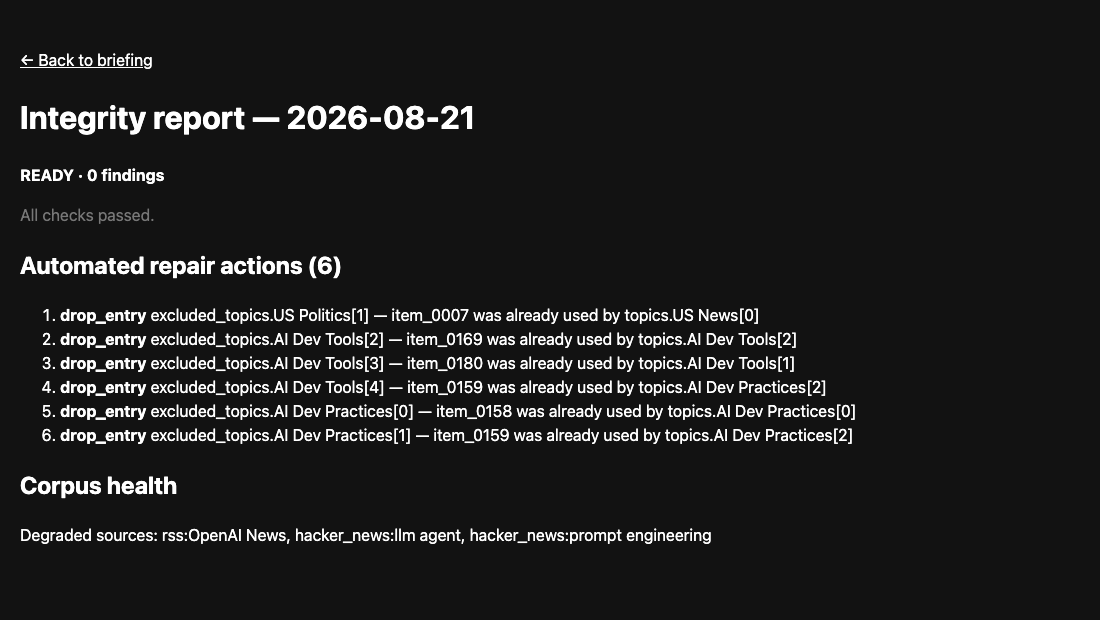
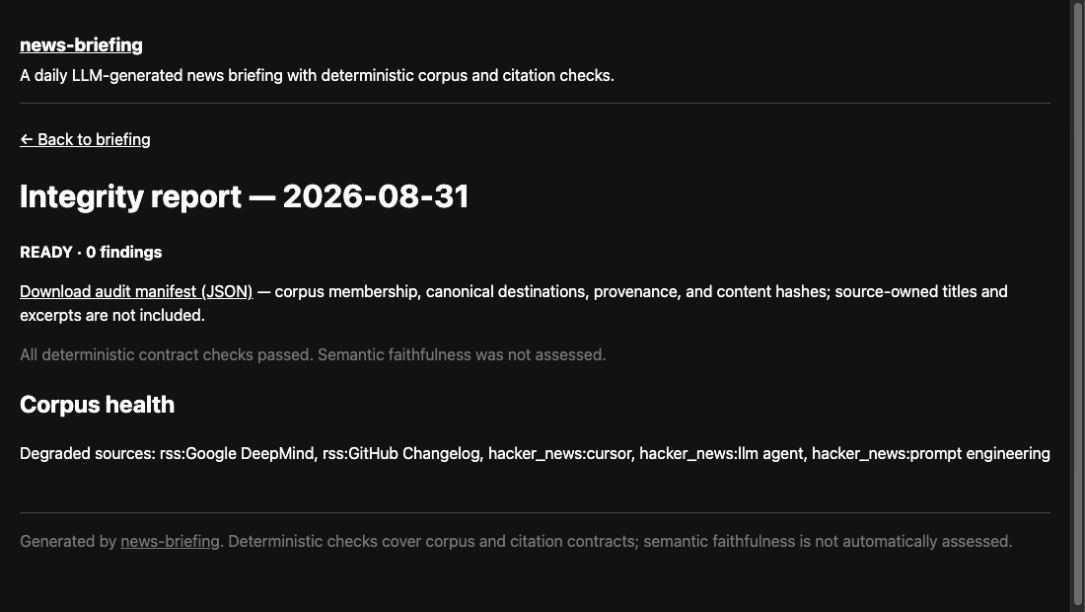
docs: refresh briefing screenshots (#154)

Changed region(s): [[0.0, 0.0, 1.0, 1.0], [0.0, 0.0621, 0.5779, 0.3725], [0.0, 0.8382, 0.9429, 0.9003]]

diff --git a/README.md b/README.md
@@ -27,9 +27,7 @@ So: a GitHub Actions cron job fetches 150–250 items from RSS, Hacker News, and
 | Reader view | Auditor view |
 |---|---|
 | ![Reader view of the daily briefing](docs/images/reader-view.png) | ![Per-run integrity report](docs/images/auditor-report.png) |
-| The status chip links to that day's integrity report. A clean run means every deterministic contract check passed — links resolve to selected corpus items, sections routed correctly, source health declared. It does **not** mean the summary is faithful to the linked article; nothing here checks that. | Six automated repairs, then zero findings. Not a contradiction: deterministic repair runs *before* the publication gate, so a clean gate sits above the log of what it took to get there. |
-
-*Screenshot note: these images predate the status wording change from “Verified” to “Contract checks passed” and the integrity report's explicit semantic-faithfulness disclaimer. They are being kept until fresh images can be captured after the next successful daily deployment.*
+| The status chip links to that day's integrity report. A clean run means every deterministic contract check passed — links resolve to selected corpus items, sections routed correctly, source health declared. It does **not** mean the summary is faithful to the linked article; nothing here checks that. | Zero findings at the publication gate. The report exposes the audit manifest, states that semantic faithfulness was not assessed, and names degraded sources. |
 
 ## See it work
 
